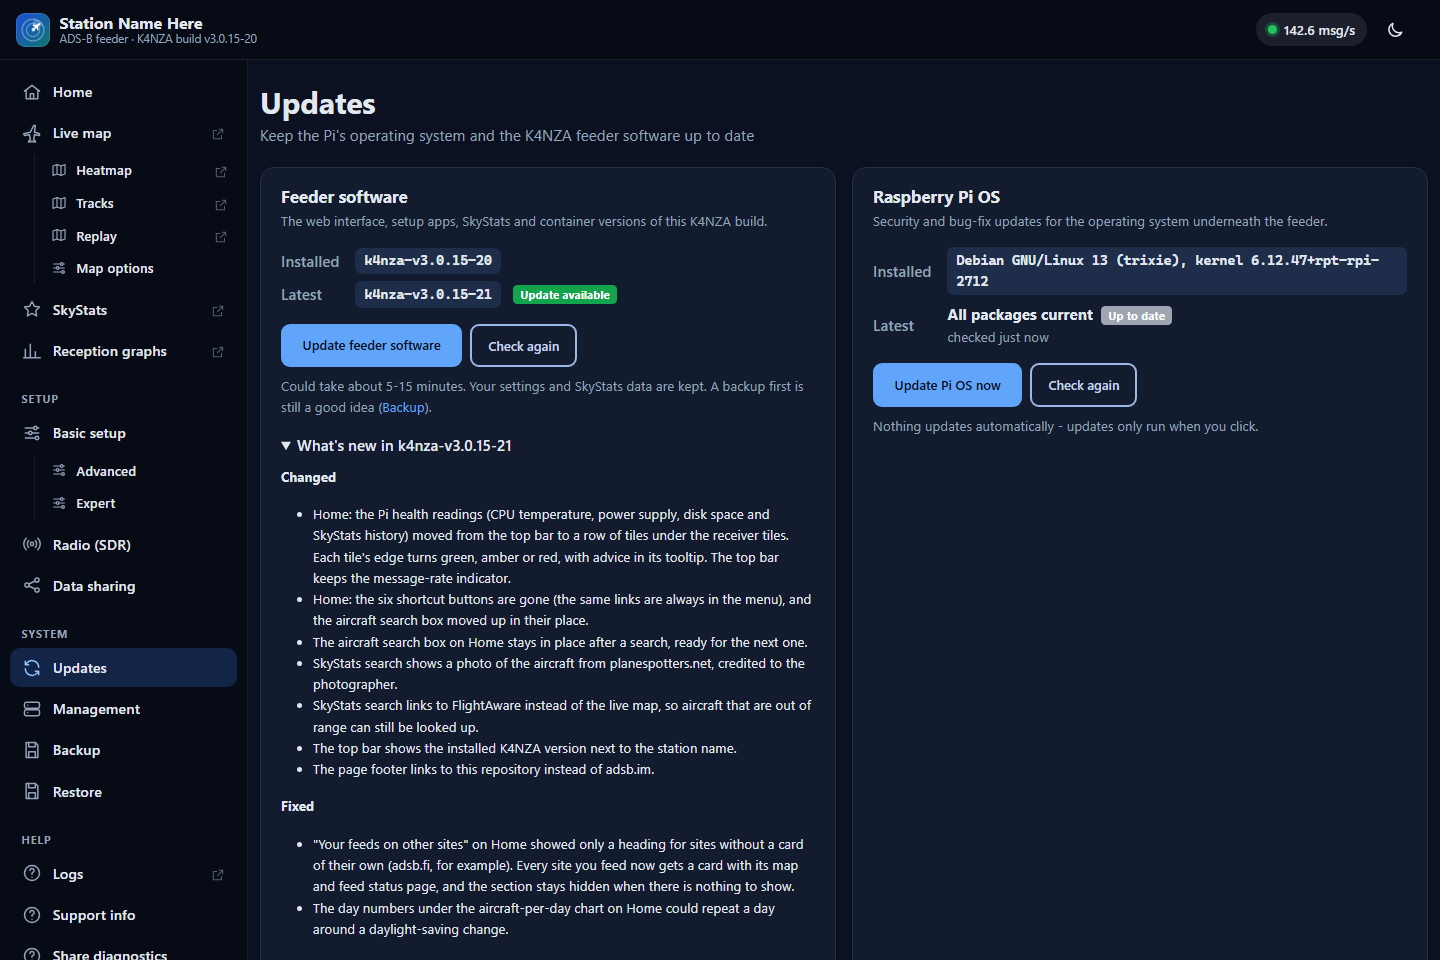
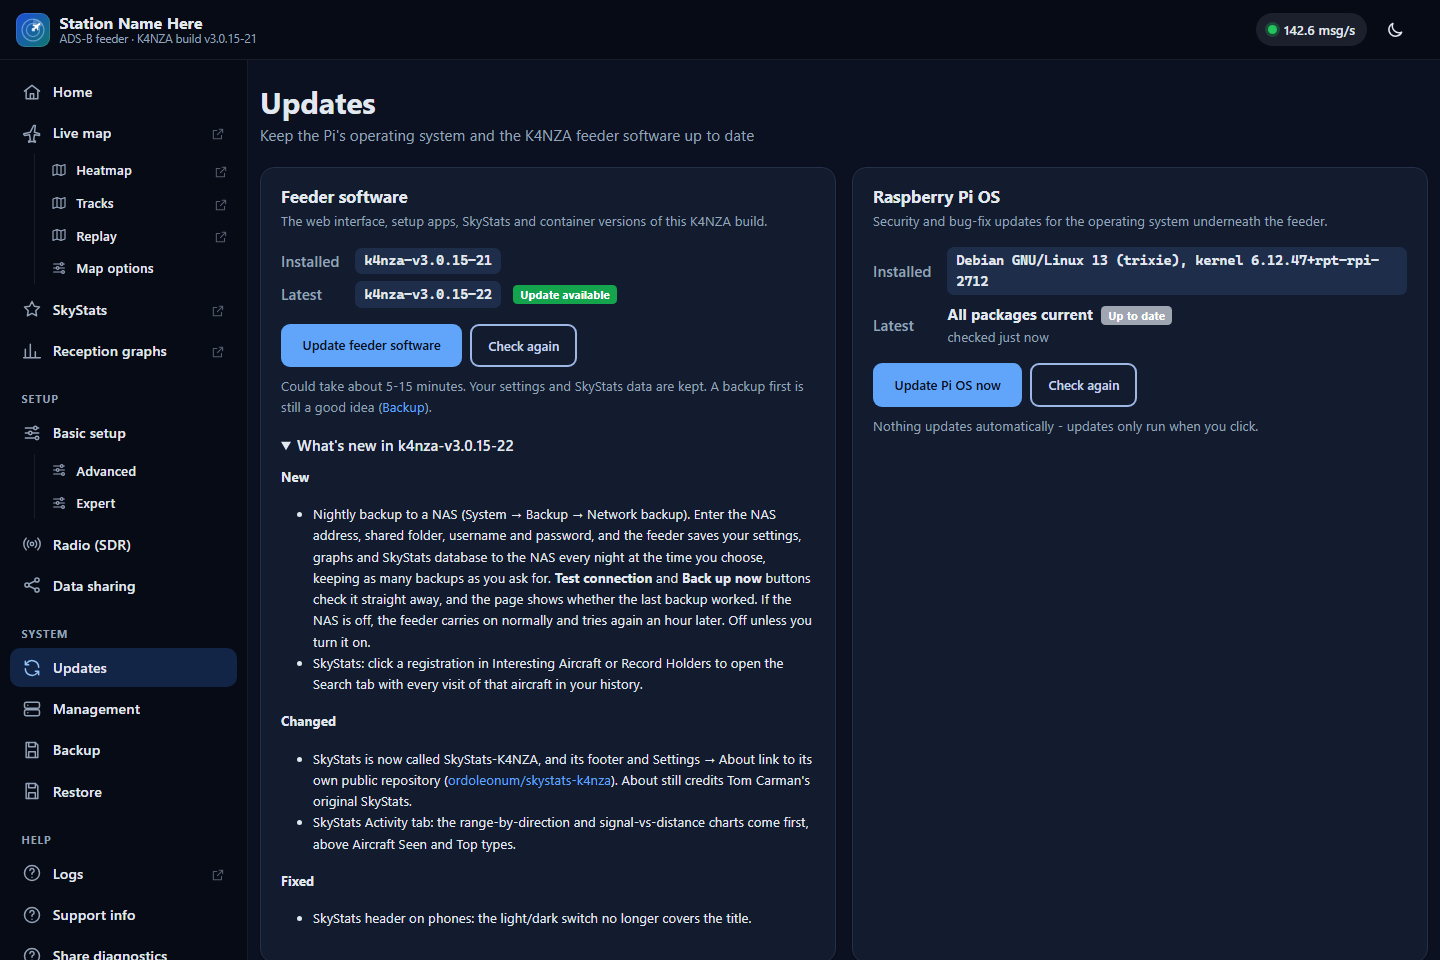
README: NAS backup section and screenshot, Updates screenshot for v3.0.15-22
- Nightly NAS backup gets its own section (what is saved, retention, NAS off,
  password storage, how to restore) and a screenshot of its settings.
- SkyStats sections say the build ships SkyStats-K4NZA, with a link.
- Good to know: a reminder to keep backups.
- Updates screenshot shows v3.0.15-21 -> -22 with the -22 notes.

Changed region(s): [[0.1875, 0.5312, 0.5625, 0.9688], [0.1875, 0.4688, 0.2188, 0.5]]

diff --git a/README.md b/README.md
@@ -32,6 +32,9 @@ Compared with stock adsb.im v3.0.15:
 
 ### SkyStats: stable for months, not weeks
 
+This build ships **[SkyStats-K4NZA](https://github.com/ordoleonum/skystats-k4nza)**, a modified
+SkyStats with its own public repository. Everything in the SkyStats sections below comes from it.
+
 - Every request to the decoder and to internet services has a timeout, so one hung request can't
   freeze recording.
 - Recording runs separately from the slower background jobs, and every job recovers from errors
@@ -69,9 +72,19 @@ Compared with stock adsb.im v3.0.15:
 - **Export** page: download flights, interesting aircraft, records, registrations and routes as CSV
   (opens in Excel or Google Sheets), one at a time or all together in a ZIP, with an optional date range.
 - SkyStats backups are streamed and compressed, and can be **restored** (*System → Restore*).
-- Optional **nightly backup to a NAS** (a Synology or any SMB share, *System → Backup*): settings,
-  graphs and the SkyStats database, with old backups deleted automatically. The feeder only connects
-  while the backup runs, so it keeps working if the NAS is off.
+
+### Nightly backup to a NAS
+
+- *System → Backup → Network backup*: every night at the time you choose, the feeder saves your
+  settings, graphs and SkyStats database to a shared folder on a NAS (a Synology or any SMB share).
+- Keeps as many nightly backups as you ask for and deletes older ones automatically.
+- **Test connection** and **Back up now** check it straight away; the page shows whether the last
+  backup worked.
+- The feeder only connects while the backup runs. If the NAS is off, the feeder keeps working normally
+  and tries again an hour later. Nothing extra is written to the SD card.
+- The NAS password is stored in its own file on the feeder, readable only by the system, and is not
+  part of the configuration backup.
+- To restore, copy a backup folder from the NAS to your computer and use *System → Restore*.
 
 ### Gentle on the SD card and CPU
 
@@ -126,6 +139,10 @@ the selected-aircraft card. *(Sample aircraft, shown over Chicago.)*
 **One-click updates** for the feeder software and Raspberry Pi OS, showing what's installed, what's
 waiting and what's new in the newest release.
 ![Updates page](docs/screenshots/updates.png)
+
+**Nightly backup to a NAS**: settings, graphs and the SkyStats database saved to a shared folder every
+night, with the result of the last backup at the top. *(Sample settings.)*
+![Network backup (NAS) settings](docs/screenshots/backup-nas.png)
 
 **SkyStats aircraft search**: every visit of an aircraft with its photo, route, closest distance,
 highest altitude and time in view, ready to download as CSV. *(Sample data; photo: U.S. Air Force
@@ -231,6 +248,8 @@ The **Radio (SDR)** page has the full guide.
   as possible, and container logs are size-limited. A good-quality card still matters.
 - **SkyStats history** is kept forever by default. To limit it, set
   *Setup → Advanced → SkyStats → Keep history (days)*.
+- **Backups:** SD cards do wear out. Turn on the nightly NAS backup, or download a configuration
+  backup and a SkyStats data backup now and then (*System → Backup*).
 
 ## Credits and license
 
